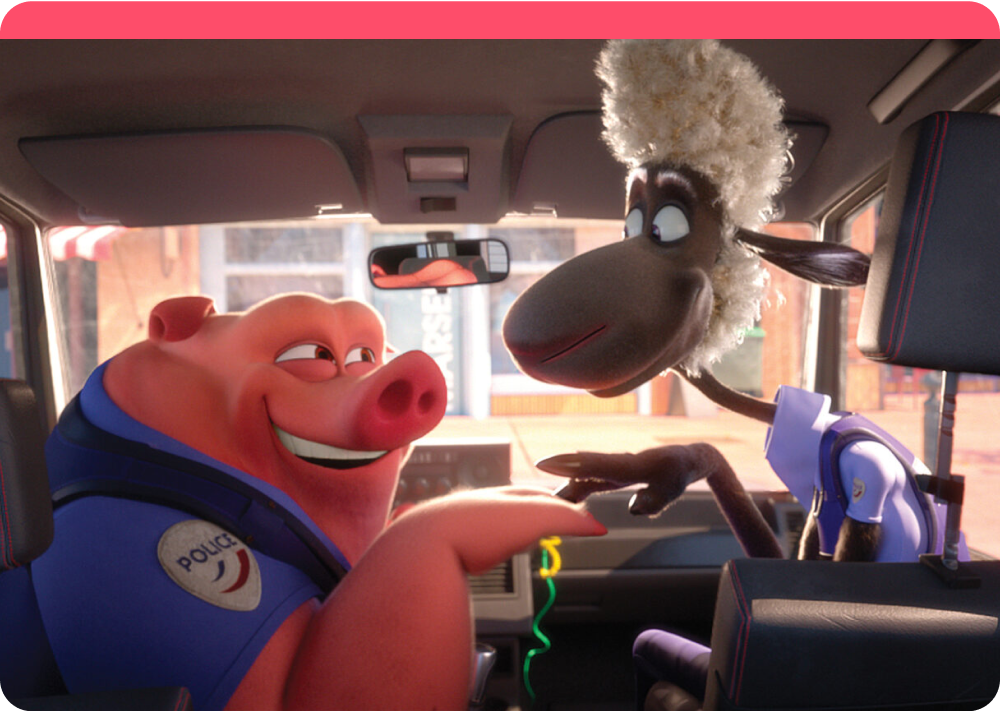
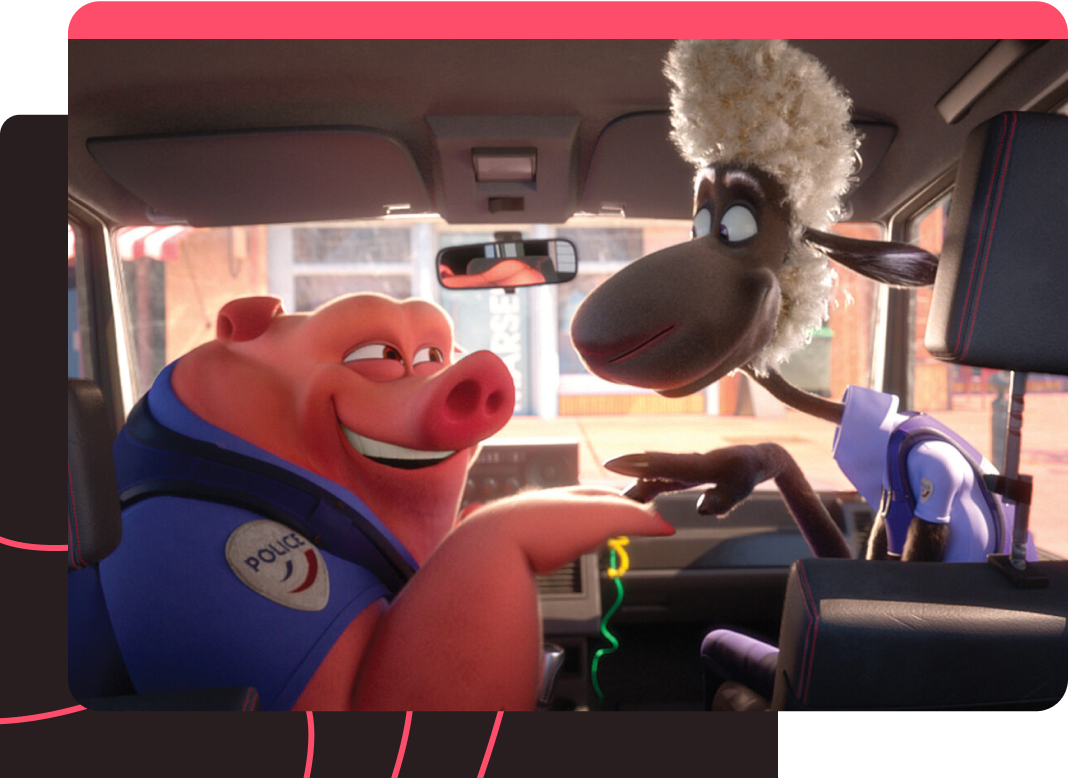
add section blogs

diff --git a/index.html b/index.html
@@ -183,6 +183,149 @@
         </div>
       </section>
 
+      <!-- ==============BLOGS===================== -->
+      <section class="blogs">
+        <div class="blogs__box--1">
+          <div class="box__title">
+            <div class="inner__title">
+              <h2 class="title--background">courses</h2>
+              <h4 class="title--pink" id="title__pink--left">tagline here</h4>
+              <h3 class="title" id="title__title--left"><span>premium</span>colleges</h3>
+            </div>
+
+            <div class="inner__subtitle">
+              <p class="subtitle">
+                We have already done the hard work of identifying and curating the best premium creative colleges across 4 continents. Our members have now access to thousands of courses that are offered across different formats and delivery mode. You can connect students to bachelor degrees, master programs, certificates, diplomas, and short courses that are either offered online or on campus.
+              </p>
+            </div>
+            <div class="inner__btn">
+              <p>
+                See the full school list
+                <a href="#" id="arrow">here <img src="img/Arrow.svg" alt="Arrow" /></a>
+              </p>
+            </div>
+          </div>
+          <!-- ******* -->
+          <div class="box__img">
+            <img src="img/RectangleBox1.png" alt="Gnomon image" />
+          </div>
+        </div>
+        <!-- --------------------------------- -->
+        <div class="blogs__box--2">
+          <div class="box__title">
+            <div class="inner__title">
+              <h2 class="title--background">program</h2>
+              <h4 class="title--pink">tagline here</h4>
+              <h3 class="title"><span>ease to use</span>platform</h3>
+            </div>
+
+            <div class="inner__subtitle">
+              <p class="subtitle">
+                An all-in-one student recruitment platform that enables our
+                members to manage and grow their business.
+              </p>
+              <ul>
+                <li>
+                  An agency CRM to send personalised quotes, manage the full
+                  student pipeline, manage all stages of the student application
+                  process, and enroll students.
+                </li>
+                <li>
+                  Access to a library of creative digital assets that support
+                  your marketing campaigns.
+                </li>
+                <li>
+                  Easy-to-use dashboard. Sales reports so that you can take
+                  control of your pipeline conversion.
+                </li>
+                <li>
+                  Bootcamp training videos with tips on how to grow your
+                  recruitment business.
+                </li>
+              </ul>
+            </div>
+            <div class="inner__btn">
+              <a href="#" class="btn">use our plarform</a>
+            </div>
+          </div>
+          <!-- ******* -->
+          <div class="inner__img">
+            <img src="img/RectangleBox2.png" alt="Platform image" />
+          </div>
+        </div>
+        <!-- --------------------------------- -->
+        <div class="blogs__box--3">
+          <div class="box__title">
+            <div class="inner__title">
+              <h2 class="title--background">global</h2>
+              <h4 class="title--pink">tagline here</h4>
+              <h3 class="title">countless<span><br>destinations</span></h3>
+            </div>
+
+            <div class="inner__subtitle">
+              <p class="subtitle">
+                The best trips happen just like that, when you don't expect them
+                at all. Everything you dreamed of will become available to you
+                when you do not expect it. And we will help you with your
+                dreams.
+              </p>
+            </div>
+            <div class="inner__btn">
+              <p>
+                See the full trip
+                <a href="#" id="arrow">here <img src="img/Arrow.svg" alt="Arrow" /></a>
+              </p>
+            </div>
+          </div>
+          <!-- ******* -->
+          <div class="box__img">
+            <img src="img/RectangleBox3.png" alt="London image" />
+          </div>
+        </div>
+        <!-- --------------------------------- -->
+        <div class="blogs__box--4">
+          <div class="blogs__box--2">
+            <div class="box__title">
+              <div class="inner__title">
+                <h2 class="title--background">program</h2>
+                <h4 class="title--pink">tagline here</h4>
+                <h3 class="title"><span>low fees,</span>hegh return</h3>
+              </div>
+
+              <div class="inner__subtitle">
+                <p class="subtitle">
+                  Attractive commercial terms facilitate stronger relationships
+                  between partners. We provide:
+                </p>
+                <ul>
+                  <li>
+                    Low subscription fee (from USD $99/month) with higher than
+                    standard commission payments (avg. USD $2,000 per student
+                    enrolled).
+                  </li>
+                  <li>
+                    Seamless and quick commission payments with full visibility.
+                  </li>
+                  <li>
+                    Just in case you missed it, we pass over the full commission
+                    amount we receive from the colleges - our members get 100%
+                    of the commission!
+                  </li>
+                </ul>
+              </div>
+              <div class="inner__btn">
+                <a href="#" class="btn">chech our pricing</a>
+              </div>
+            </div>
+            <!-- ******* -->
+            <div class="inner__img">
+              <img src="img/RectangleBox4.png" alt="Platform image" />
+            </div>
+          </div>
+        </div>
+      </section>
+      <!-- ==============PARTNER===================== -->
+
       <!-- END CONTAINER -->
     </div>
 

diff --git a/css/main.css b/css/main.css
@@ -130,6 +130,13 @@ span {
   text-transform: none;
 }
 
+.inner__btn #arrow {
+  color: #fe4d6a;
+}
+.inner__btn #arrow:hover {
+  color: #fff;
+}
+
 .worldwide {
   background-color: #000;
 }
@@ -239,6 +246,87 @@ span {
 .images .images__img img {
   max-width: 101%;
   height: 101%;
+}
+
+.blogs {
+  padding: 10rem 10rem;
+  background-color: #000;
+  display: flex;
+  flex-direction: column;
+  gap: 10rem;
+}
+.blogs .blogs__box--1,
+.blogs .blogs__box--3 {
+  display: flex;
+  align-items: center;
+  gap: 6rem;
+}
+.blogs .box__title {
+  max-width: 65rem;
+  min-width: 20rem;
+  display: flex;
+  flex-direction: column;
+  align-items: start;
+}
+.blogs .inner__title {
+  margin-bottom: 2.5rem;
+  text-align: left;
+  position: relative;
+}
+.blogs .inner__title .title,
+.blogs .inner__title .title--pink {
+  position: absolute;
+  transform: translate(-20%, -50%);
+}
+.blogs .inner__title .title {
+  font-size: 5rem;
+  top: 68%;
+  left: 17%;
+}
+.blogs .inner__title .title--pink {
+  top: 30%;
+  left: 5%;
+}
+.blogs .inner__subtitle {
+  margin-bottom: 3.5rem;
+}
+.blogs .inner__subtitle p {
+  margin-bottom: 2rem;
+}
+.blogs .inner__subtitle ul > li::marker {
+  display: list-item;
+  content: url("/img/VectorArrow.svg");
+  margin-right: 1rem;
+}
+.blogs .inner__subtitle ul > li {
+  padding-left: 4rem;
+  padding-bottom: 3rem;
+}
+.blogs .blogs__box--2,
+.blogs .blogs__box--4 {
+  display: flex;
+  flex-direction: row-reverse;
+  align-items: center;
+  gap: 6rem;
+}
+.blogs .blogs__box--1 {
+  align-self: start;
+}
+.blogs .blogs__box--1 .title--pink {
+  left: 5%;
+}
+.blogs .blogs__box--1 .title {
+  left: 15%;
+}
+.blogs .blogs__box--3 {
+  align-self: start;
+}
+.blogs .blogs__box--3 .title--pink {
+  left: 8%;
+}
+.blogs .blogs__box--3 .title {
+  top: 77%;
+  left: 15%;
 }
 
 .header {

diff --git a/scss/components/_blogs.scss b/scss/components/_blogs.scss
@@ -1,0 +1,84 @@
+.blogs {
+  padding: 10rem 10rem;
+  background-color: $color-black;
+  display: flex;
+  flex-direction: column;
+  gap: 10rem;
+  .blogs__box--1,
+  .blogs__box--3 {
+    display: flex;
+    align-items: center;
+    gap: 6rem;
+  }
+  .box__title {
+    max-width: 65rem;
+    min-width: 20rem;
+    display: flex;
+    flex-direction: column;
+    align-items: start;
+  }
+  .inner__title {
+    margin-bottom: 2.5rem;
+    text-align: left;
+    position: relative;
+
+    .title,
+    .title--pink {
+      position: absolute;
+      transform: translate(-20%, -50%);
+    }
+    .title {
+      font-size: 5rem;
+      top: 68%;
+      left: 17%;
+    }
+    .title--pink {
+      top: 30%;
+      left: 5%;
+    }
+  }
+
+  .inner__subtitle {
+    margin-bottom: 3.5rem;
+    p {
+      margin-bottom: 2rem;
+    }
+    ul > li::marker {
+      display: list-item;
+      content: url('/img/VectorArrow.svg');
+      margin-right: 1rem;
+    }
+    ul > li {
+      padding-left: 4rem;
+      padding-bottom: 3rem;
+    }
+  }
+
+  .blogs__box--2,
+  .blogs__box--4 {
+    display: flex;
+    flex-direction: row-reverse;
+    align-items: center;
+    gap: 6rem;
+  }
+
+  .blogs__box--1 {
+    align-self: start;
+    .title--pink {
+      left: 5%;
+    }
+    .title {
+      left: 15%;
+    }
+  }
+  .blogs__box--3 {
+    align-self: start;
+    .title--pink {
+      left: 8%;
+    }
+    .title {
+      top: 77%;
+      left: 15%;
+    }
+  }
+}

diff --git a/scss/main.scss b/scss/main.scss
@@ -9,7 +9,7 @@
 @import 'components/worldwide';
 @import 'components/creative';
 @import 'components/images';
-// @import 'components/star';
+@import 'components/blogs';
 // @import 'components/sunset';
 // @import 'components/tools';
 // @import 'components/whatWeDo';

diff --git a/scss/components/_button.scss b/scss/components/_button.scss
@@ -19,3 +19,12 @@
 .btn--nav {
   text-transform: none;
 }
+
+.inner__btn {
+  #arrow {
+    color: $color-primary;
+    &:hover {
+      color: $color-white;
+    }
+  }
+}
